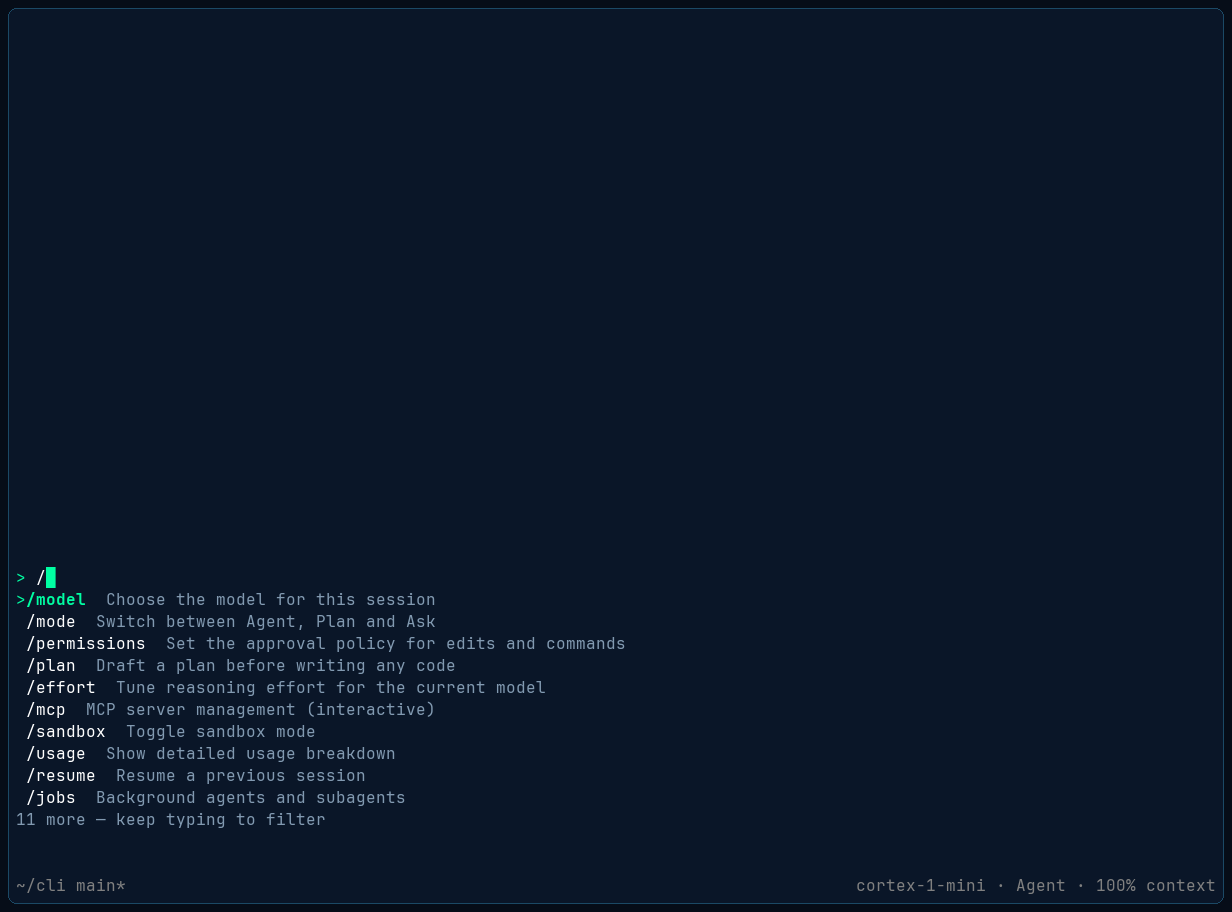
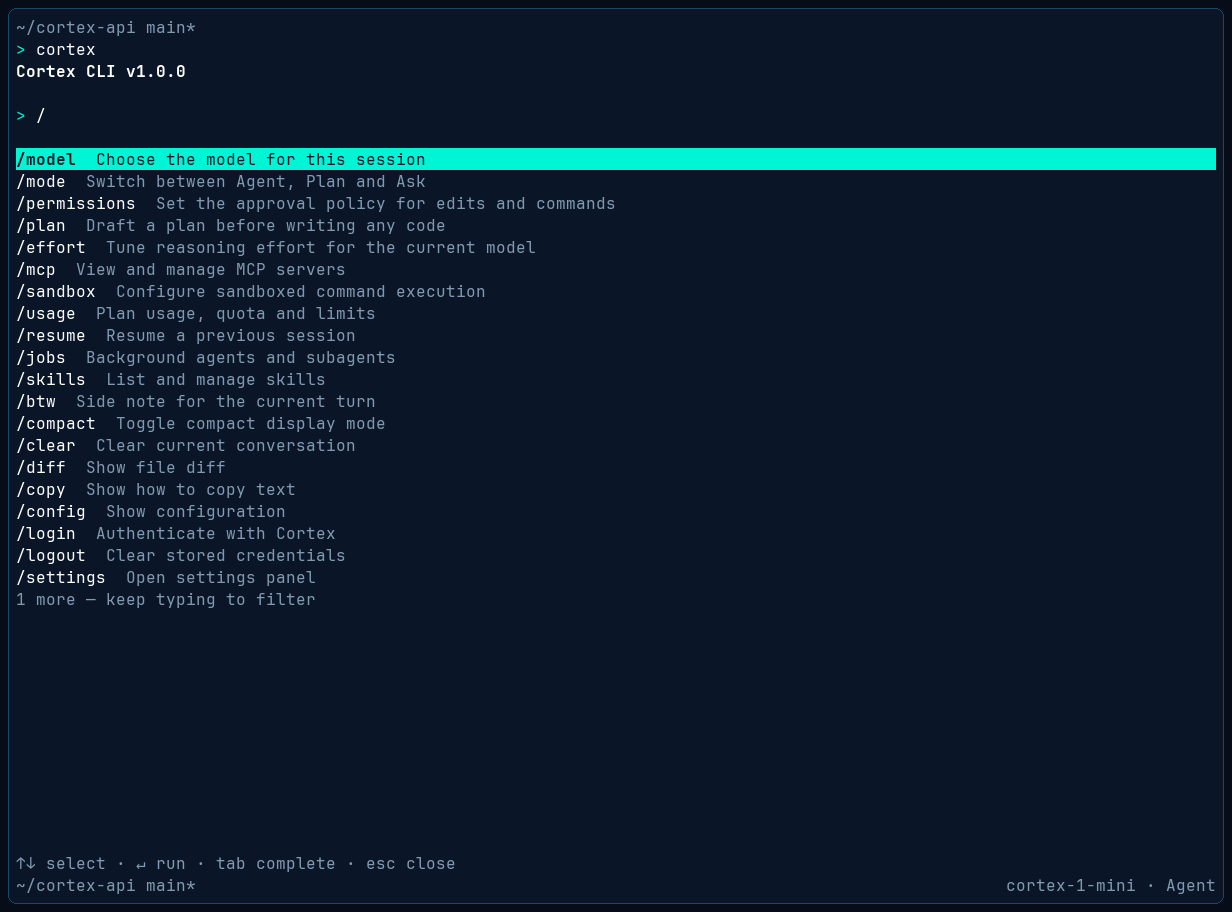
feat(tui): recapture splash and slash lock pngs
Refresh 40x12 and 120x40 splash and palette frames to the session
chrome and twenty-row slash lock.

diff --git a/docs/media/tui-lock/README.md b/docs/media/tui-lock/README.md
@@ -10,7 +10,7 @@ binary still reports the crate version.
 
 | File | Surface |
 |------|---------|
-| `splash.png` | One-line splash, no mascot |
+| `splash.png` | Empty session chrome: cwd, `> cortex`, version, composer |
 | `login_select.png` | Aligned radios, mint on the selected row |
 | `login_waiting.png` | Loading / waiting for browser auth |
 | `login_success.png` | `Signed in.` |
